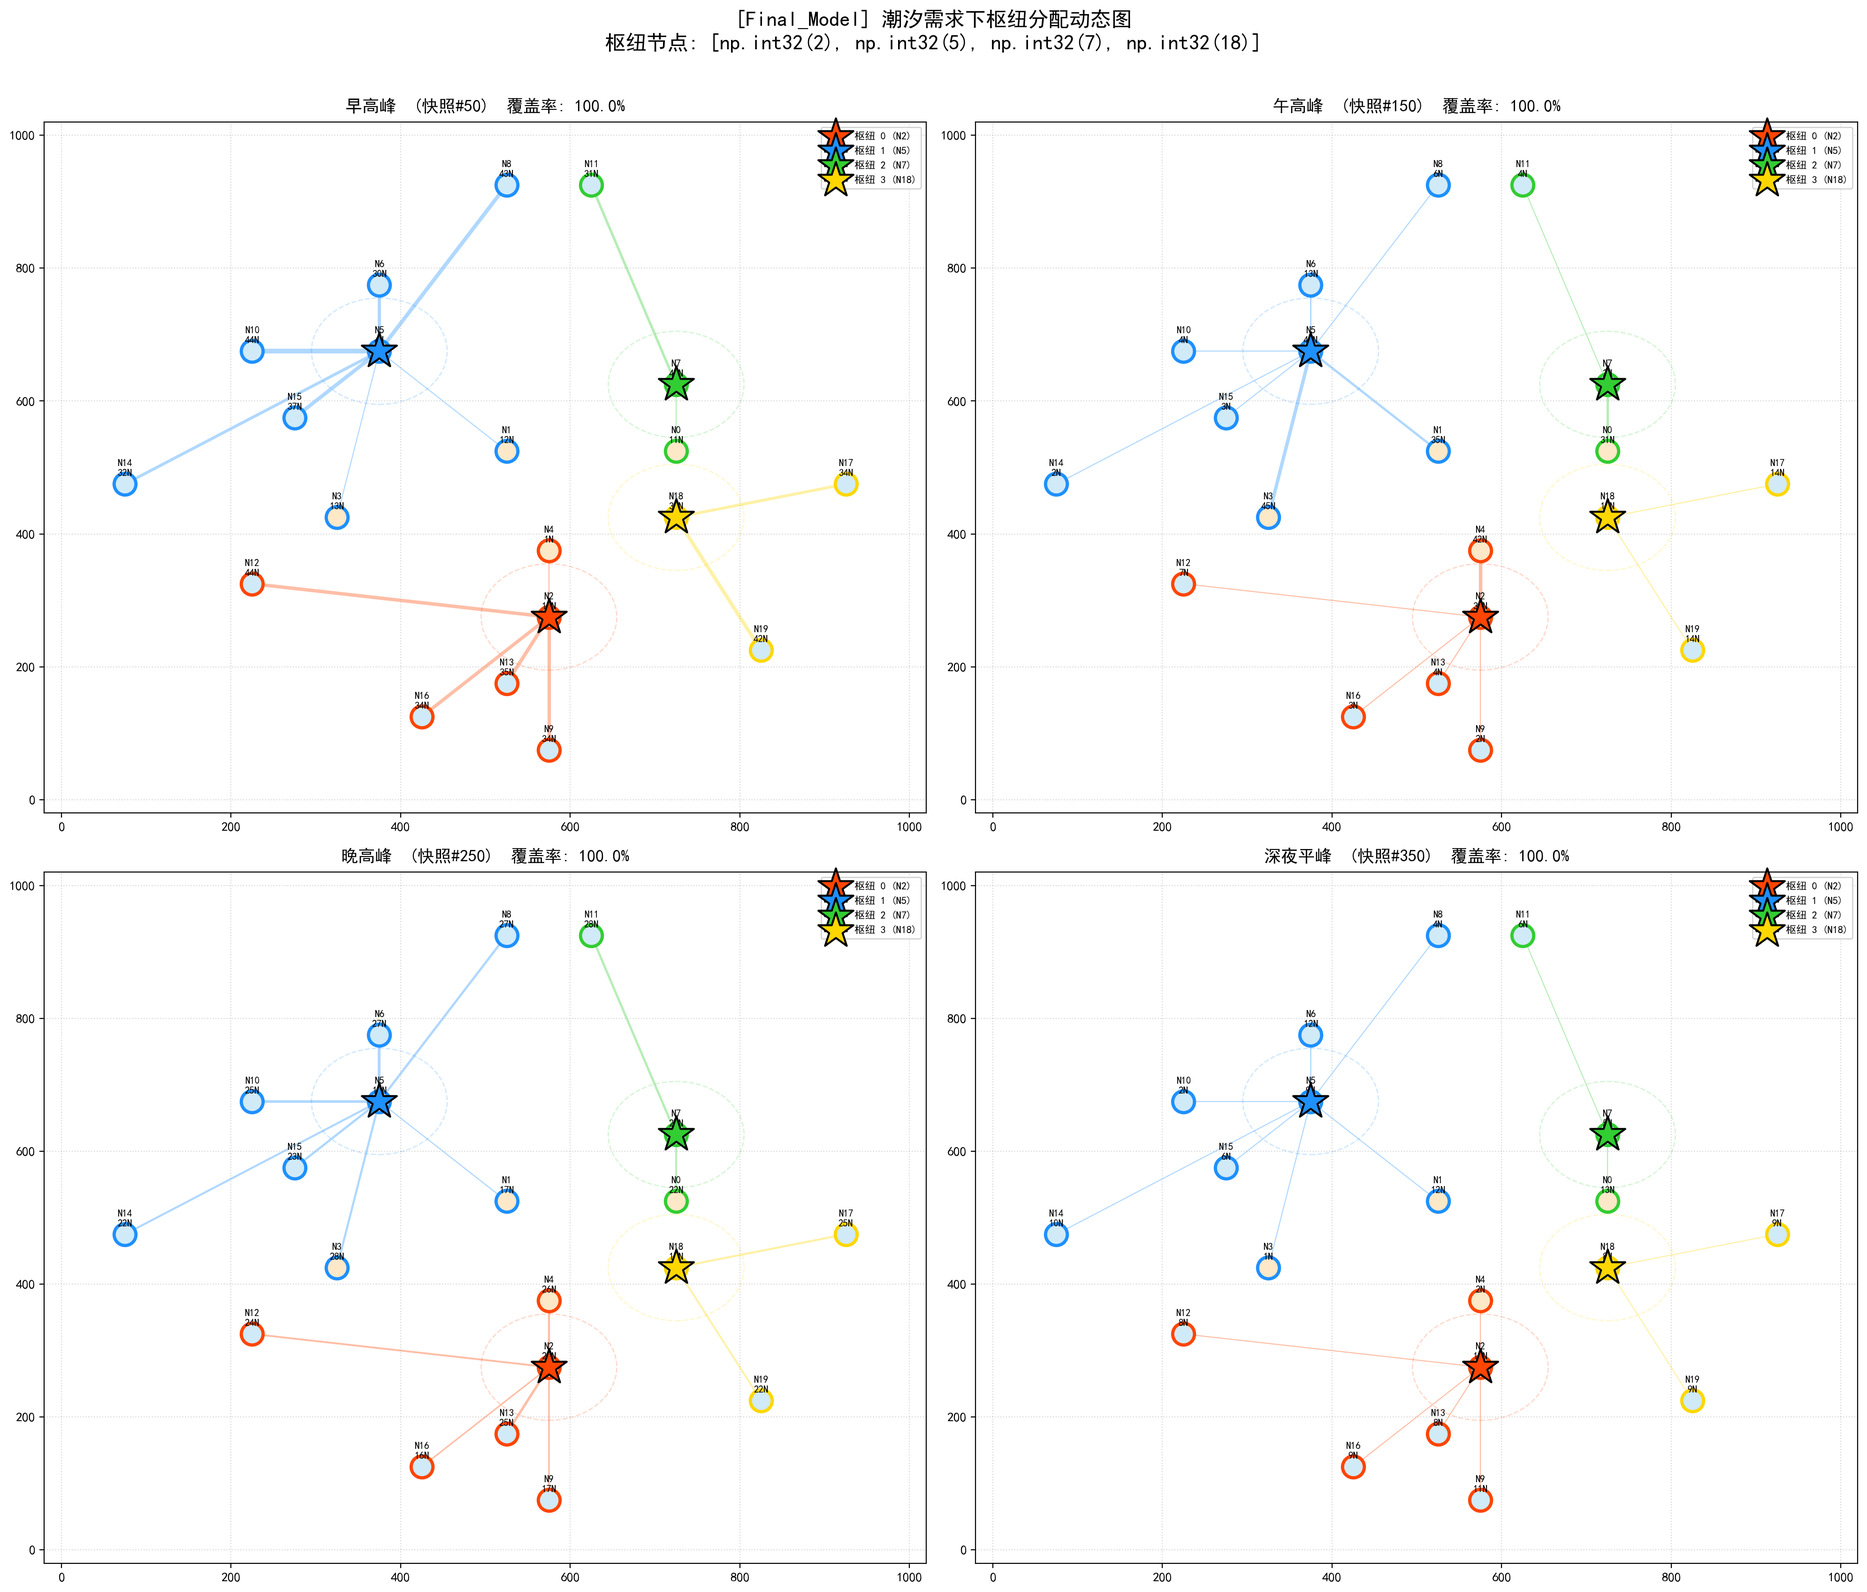
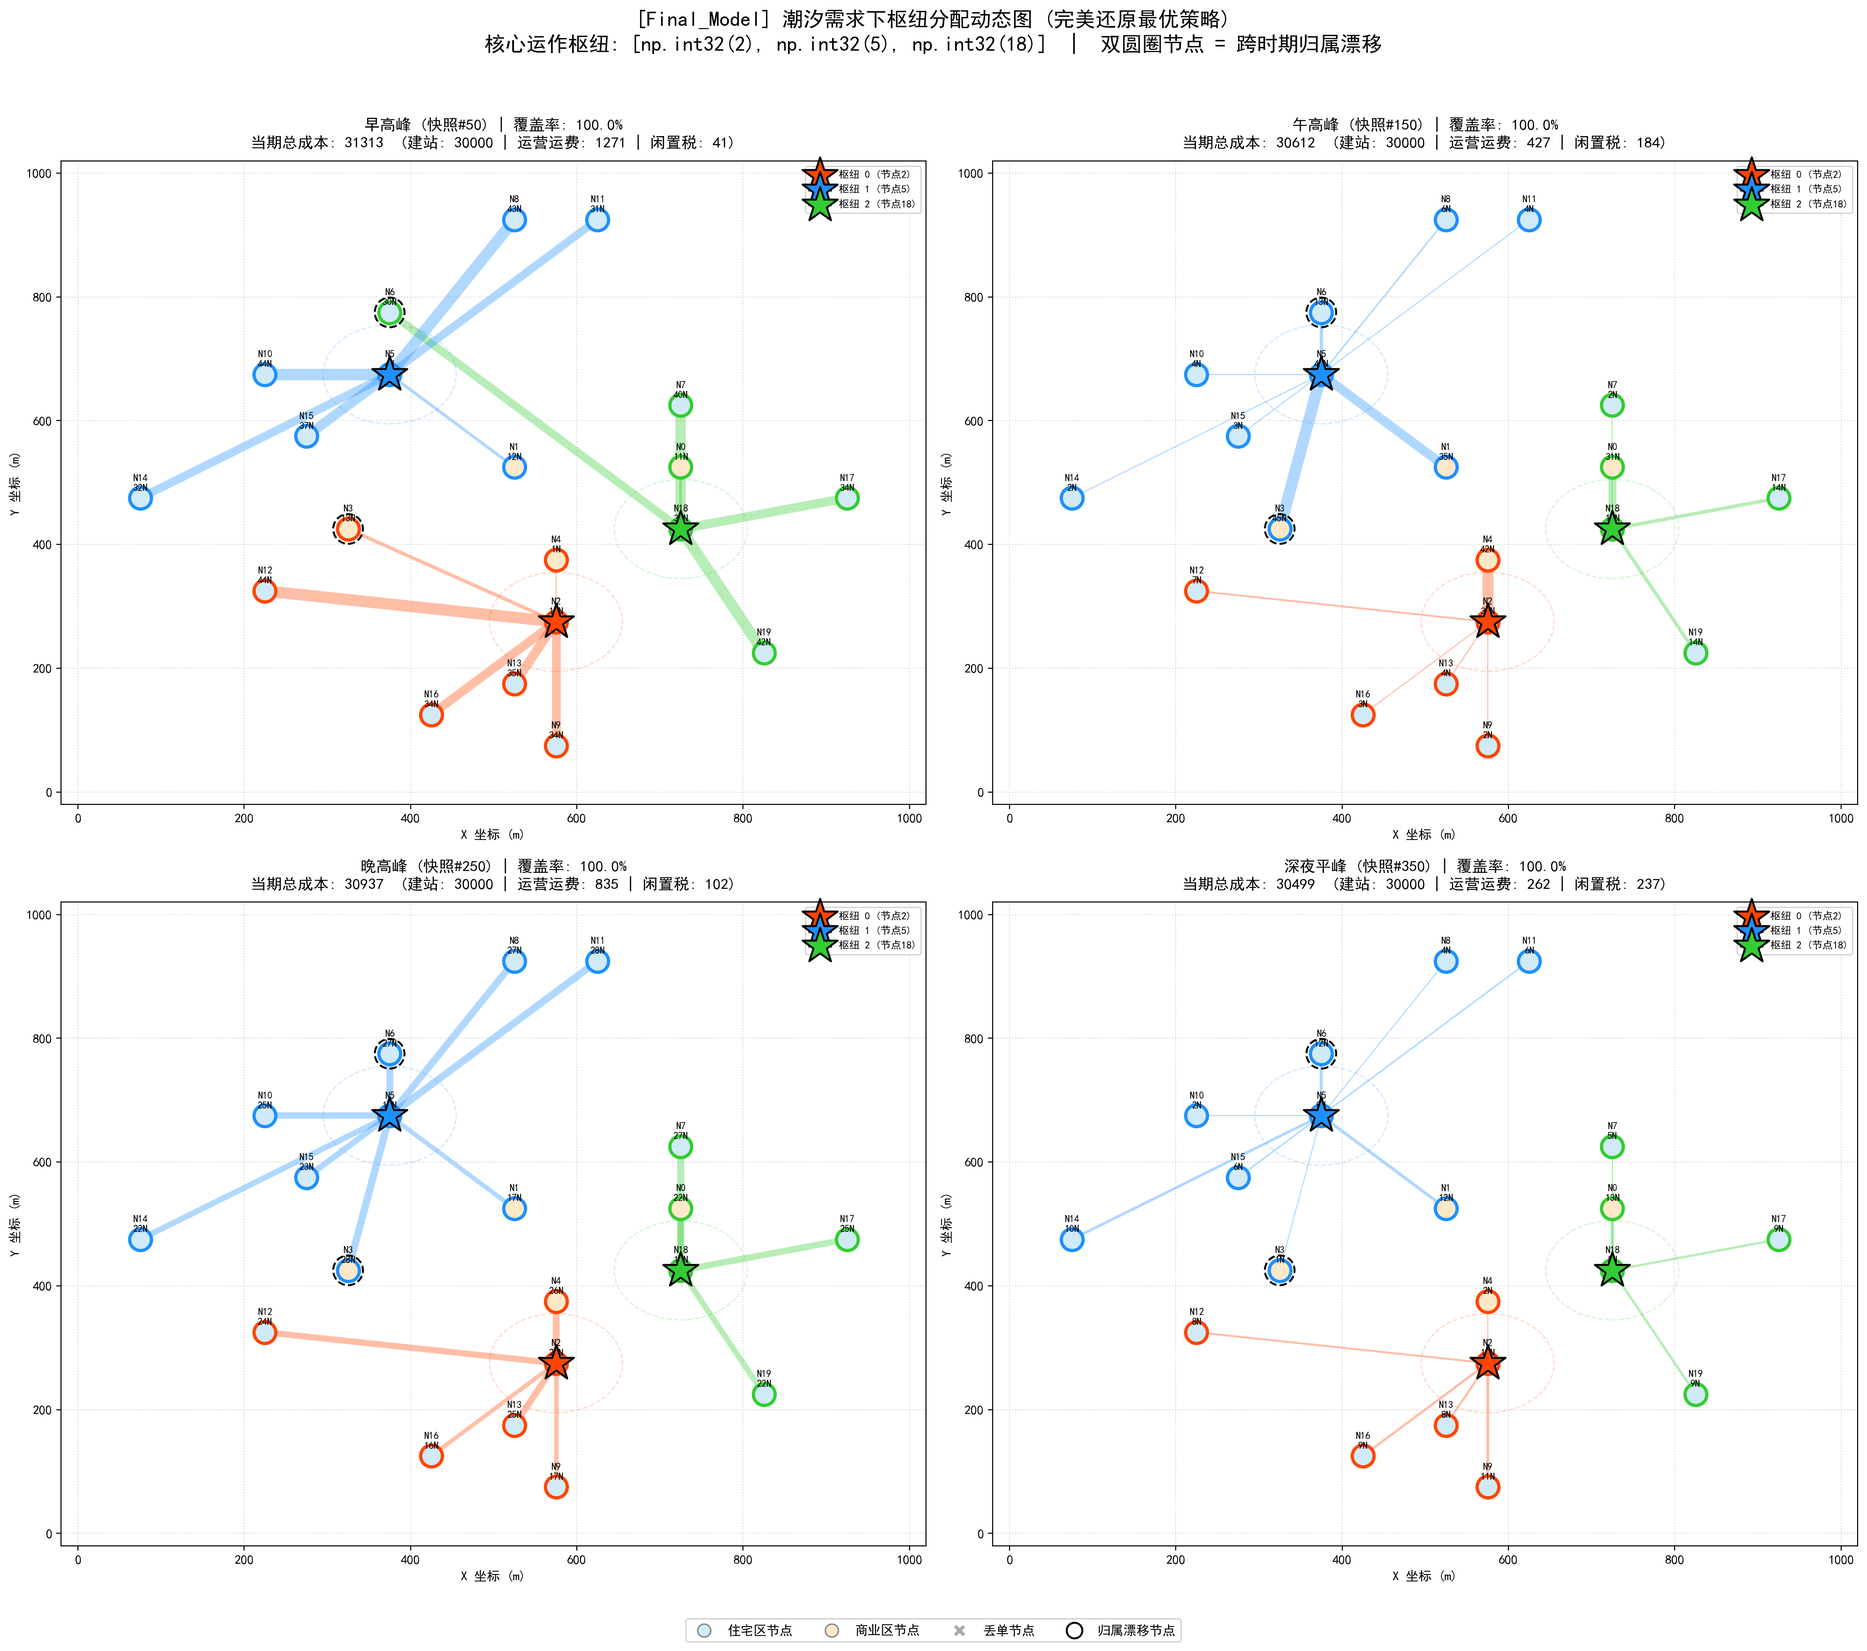
第二次，优化可视化脚本分配策略

diff --git a/module_1_deployment/visualize_hub.py b/module_1_deployment/visualize_hub.py
@@ -1,13 +1,16 @@
 import os
 import sys
 import torch
+import random
 import numpy as np
 import warnings
 import matplotlib.pyplot as plt
 from matplotlib.lines import Line2D
+from torch.distributions import Categorical  
 
 warnings.filterwarnings("ignore", category=FutureWarning)
 
+# 确保中文字体正常显示
 plt.rcParams['font.sans-serif'] = ['SimHei', 'Songti SC', 'Arial Unicode MS', 'Microsoft YaHei']
 plt.rcParams['axes.unicode_minus'] = False
 
@@ -20,22 +23,29 @@ from config import UAVHubConfig
 from module_1_deployment.env_robust_hub import RobustHubEnv
 from module_1_deployment.model_gat_ppo import GraphAttentionPPO
 
+def set_global_seed(seed=42):
+    random.seed(seed)
+    np.random.seed(seed)
+    torch.manual_seed(seed)
+    torch.cuda.manual_seed(seed)
+    torch.cuda.manual_seed_all(seed)
+    torch.backends.cudnn.deterministic = True
+    torch.backends.cudnn.benchmark = False
+    os.environ['PYTHONHASHSEED'] = str(seed)
 
-def get_action_mask(hub_locations, max_hubs, N, device):
-    """与训练时 get_action_mask 逻辑对齐：动作空间 max_hubs*(N+1)"""
+def get_action_mask(state, max_hubs, N, device, hub_locations):
     action_dim = max_hubs * (N + 1)
-    mask = torch.ones(action_dim, dtype=torch.bool, device=device)
-    occupied_nodes = set(h for h in hub_locations if h < N)
-
+    mask = torch.ones(action_dim, dtype=torch.bool).to(device)
+    occupied_nodes = set(np.where(state[:, 2] == 1.0)[0].tolist())
+    
     for h_idx in range(max_hubs):
         own_node = hub_locations[h_idx] if h_idx < len(hub_locations) else N
         for node_idx in occupied_nodes:
             if node_idx == own_node:
-                continue
+                continue 
             idx = h_idx * (N + 1) + node_idx
             mask[idx] = False
     return mask
-
 
 def get_sinkhorn_routing(env, active_hubs, snap_demand):
     num_hubs = len(active_hubs)
@@ -43,7 +53,8 @@ def get_sinkhorn_routing(env, active_hubs, snap_demand):
     for j, h_idx in enumerate(active_hubs):
         distances = env.dist_matrix[:, h_idx]
         C_dist[:, j] = env.physics.calculate_economic_cost(distance=distances, demand=1.0)
-    C_dist[:, -1] = 20.0  # 与训练时保持一致
+        
+    C_dist[:, -1] = env.cfg.penalty_unmet 
 
     shadow_prices = np.zeros(num_hubs + 1)
     for _ in range(20):
@@ -61,53 +72,143 @@ def get_sinkhorn_routing(env, active_hubs, snap_demand):
         overloads = np.maximum(0, hub_loads - env.cfg.Q)
         shadow_prices[:-1] += overloads * env.shadow_step
 
-    return probs
+    # ==========================================================
+    # 👑 究极物理自洽 (V3.0 你的本地免邮版)：容量受限的智能硬分配
+    # ==========================================================
+    hard_probs = np.zeros_like(probs)
+    remaining_capacity = np.ones(num_hubs) * env.cfg.Q
 
+    # 按照节点需求量从大到小排序（物流经典的贪心策略：优先装载大客户）
+    node_order = np.argsort(-snap_demand)
 
+    for i in node_order:
+        req = snap_demand[i]
+        
+        # 如果 AI 在软分配时就强烈倾向于拒单，直接扔垃圾桶
+        if probs[i, -1] > 0.5:
+            hard_probs[i, -1] = 1.0
+            continue
+
+        preferred_hubs = np.argsort(-probs[i, :-1])
+        assigned = False
+
+        for j in preferred_hubs:
+            hub_node = active_hubs[j]
+            
+            # 💡 完美自洽：本地需求原地消化，不消耗无人机运力
+            if i == hub_node:
+                hard_probs[i, j] = 1.0
+                assigned = True
+                break
+            else:
+                # 跨节点需求，严格校验剩余容量
+                if remaining_capacity[j] >= req:
+                    hard_probs[i, j] = 1.0
+                    remaining_capacity[j] -= req
+                    assigned = True
+                    break
+
+        if not assigned:
+            hard_probs[i, -1] = 1.0
+
+    # 财务级成本计算：全部基于校验后的 hard_probs 进行硬核算
+    transport_cost = 0.0
+    idle_penalty = 0.0 
+    actual_hub_loads = np.zeros(num_hubs)
+
+    for j, h_idx in enumerate(active_hubs):
+        mask = np.ones(env.N, dtype=bool)
+        mask[h_idx] = False 
+        transport_cost += np.sum(hard_probs[mask, j] * C_dist[mask, j] * snap_demand[mask])
+        actual_hub_loads[j] = np.sum(hard_probs[mask, j] * snap_demand[mask])
+        
+        hub_idle = env.cfg.Q - actual_hub_loads[j] 
+        idle_penalty += hub_idle * (env.cfg.penalty_unmet * 0.005)
+
+    penalty_cost = np.sum(hard_probs[:, -1] * snap_demand) * env.cfg.penalty_unmet
+    
+    # 验证审计：此时物理载重绝对不会越过红线
+    soft_overloads = np.maximum(0, actual_hub_loads - env.cfg.Q)
+    overload_penalty = np.sum(soft_overloads) * (env.cfg.penalty_unmet * 2.0)
+    
+    op_cost = transport_cost + penalty_cost + overload_penalty
+
+    # 打印最干净、绝对安全的物理账单
+    print(f"   [容量审计] 智能硬分配物理载重: {[f'N{active_hubs[j]}:{actual_hub_loads[j]:.1f}/Q{env.cfg.Q}' for j in range(num_hubs)]}")
+    if np.sum(soft_overloads) > 0:
+        print(f"   ⚠ 警告：溢出 {np.sum(soft_overloads):.1f} (在智能校验下不应出现)")
+    else:
+        print(f"   ✅ 安全：物理红线捍卫成功，溢出量为 0！")
+
+    return hard_probs, op_cost, idle_penalty
 def evaluate_and_plot_model(model_name, model_filename, cfg, env, device):
+    set_global_seed(cfg.seed)
+    
     model_path = os.path.join(current_module_dir, 'models', model_filename)
     if not os.path.exists(model_path):
         print(f"⚠ 跳过 {model_name}: 找不到模型文件 {model_path}")
         return
 
     print(f"\n=================================================")
-    print(f"🧠 正在评估模型: {model_name}")
+    print(f"🧠 正在评估模型: {model_name} (原味采样模式)")
     print(f"=================================================")
 
     model = GraphAttentionPPO(N=cfg.N, max_hubs=cfg.max_hubs).to(device)
-    model.load_state_dict(torch.load(model_path, map_location=device, weights_only=True))
-    model.eval()
+    model.load_state_dict(torch.load(model_path, map_location=device))
+    
+    model.train() 
+    for m in model.modules():
+        if isinstance(m, torch.nn.Dropout):
+            m.p = 0.0  
 
     for name, param in model.named_parameters():
-        if torch.isnan(param).any():
+        if not torch.isfinite(param).all():
             print(f"❌ 权重 {name} 含有 NaN，模型已损坏。")
             return
 
-    # 推理：逐步放置枢纽直到 episode 结束
     state, _ = env.reset()
     done = False
+    
+    best_step_reward = -float('inf')  
+    optimal_hub_locations = None      
+    
+    step_count = 0
     while not done:
         state_tensor = torch.FloatTensor(state).unsqueeze(0).to(device)
-        mask = get_action_mask(env.hub_locations, cfg.max_hubs, cfg.N, device)
+        mask = get_action_mask(state, cfg.max_hubs, cfg.N, device, env.hub_locations)
 
         with torch.no_grad():
             dist, _ = model(state_tensor)
             logits = dist.logits.squeeze(0)
-            masked_logits = logits.masked_fill(~mask, -1e9)
-            action = torch.argmax(masked_logits, dim=-1).item()
+            masked_logits = logits.masked_fill(mask == False, -1e8)
+            
+            safe_dist = Categorical(logits=masked_logits)
+            action = safe_dist.sample().item()
 
-        state, _, terminated, truncated, _ = env.step(action)
+        state, reward, terminated, truncated, _ = env.step(action)
+        step_count += 1
+        
+        if reward > best_step_reward:
+            best_step_reward = reward
+            optimal_hub_locations = env.hub_locations.copy()
+            
         done = terminated or truncated
 
-    active_hubs = env.hub_locations  # list，不含虚拟节点
-    print(f"✅ {model_name} 确定的最终枢纽节点: {active_hubs}")
+    active_hubs = [h for h in optimal_hub_locations if h < cfg.N]
+    
+    if not active_hubs:
+        print("❌ 模型把所有枢纽都扔进了垃圾桶！无法可视化。")
+        return
+
+    print(f"📸 成功抓拍！在 100 步激进采样推演中，最高单步得分为 {best_step_reward:.2f}")
+    print(f"✅ {model_name} 还原出的训练巅峰有效枢纽: {active_hubs}")
 
     output_dir = os.path.join(project_root, 'data', f"{model_name}_Results")
     os.makedirs(output_dir, exist_ok=True)
 
     node_types = env.topo['node_types']
     coords = env.coords
-    hub_colors = ['#FF4500', '#1E90FF', '#32CD32', '#FFD700', '#8A2BE2']
+    hub_colors = ['#FF4500', '#1E90FF', '#32CD32', '#FFD700', '#8A2BE2', '#FF1493']
 
     period_info = [
         ("早高峰", 50),
@@ -116,23 +217,29 @@ def evaluate_and_plot_model(model_name, model_filename, cfg, env, device):
         ("深夜平峰", 350),
     ]
 
-    # -------------------------------------------------------
-    # 图1：2×2 拼图，四时段分配结果
-    # -------------------------------------------------------
     period_assignments = []
     period_probs = []
     period_demands = []
     period_coverages = []
+    
+    # 💡 存储各时段成本拆解
+    period_op_costs = []
+    period_idle_costs = []
+    fixed_cost = sum([env.fixed_costs[h] for h in active_hubs])
 
     for _, snap_idx in period_info:
         demand = env.snapshots[snap_idx]
-        probs = get_sinkhorn_routing(env, active_hubs, demand)
+        probs, op_cost, idle_penalty = get_sinkhorn_routing(env, active_hubs, demand)
         coverage = 1.0 - np.sum(probs[:, -1] * demand) / (np.sum(demand) + 1e-6)
+        
         assignment = np.where(probs[:, -1] > 0.5, -1, np.argmax(probs[:, :-1], axis=1))
+        
         period_assignments.append(assignment)
         period_probs.append(probs)
         period_demands.append(demand)
         period_coverages.append(coverage)
+        period_op_costs.append(op_cost)
+        period_idle_costs.append(idle_penalty)
 
     drift_nodes = set()
     for i in range(env.N):
@@ -140,11 +247,14 @@ def evaluate_and_plot_model(model_name, model_filename, cfg, env, device):
         if len(valid_assignments) > 1 and len(set(valid_assignments)) > 1:
             drift_nodes.add(i)
 
-    print(f"  🔀 归属漂移节点: {sorted(drift_nodes)}")
+    print(f"  🔀 归属漂移节点 (准动态优化特征): {sorted(drift_nodes)}")
 
+    # -------------------------------------------------------
+    # 绘图部分
+    # -------------------------------------------------------
     fig, axes = plt.subplots(2, 2, figsize=(20, 18))
-    fig.suptitle(f"[{model_name}] 潮汐需求下枢纽分配动态图\n"
-                 f"枢纽节点: {active_hubs}  |  双圆圈节点 = 跨时期归属漂移",
+    fig.suptitle(f"[{model_name}] 潮汐需求下枢纽分配动态图 (完美还原最优策略)\n"
+                 f"核心运作枢纽: {active_hubs}  |  双圆圈节点 = 跨时期归属漂移",
                  fontsize=16, fontweight='bold', y=0.98)
 
     for ax_idx, (ax, (period_name, snap_idx)) in enumerate(zip(axes.flat, period_info)):
@@ -152,6 +262,11 @@ def evaluate_and_plot_model(model_name, model_filename, cfg, env, device):
         probs = period_probs[ax_idx]
         assignment = period_assignments[ax_idx]
         coverage = period_coverages[ax_idx]
+        
+        # 获取当前时段的具体成本
+        curr_op_cost = period_op_costs[ax_idx]
+        curr_idle_penalty = period_idle_costs[ax_idx]
+        total_snapshot_cost = fixed_cost + curr_op_cost + curr_idle_penalty
 
         for i in range(env.N):
             if assignment[i] == -1:
@@ -168,7 +283,7 @@ def evaluate_and_plot_model(model_name, model_filename, cfg, env, device):
             fill_color = '#D0EAF8' if node_types[i] == 0 else '#FDE8C8'
             label_text = f"N{i}\n{demand[i]:.0f}N"
 
-            if assignment[i] == -1:
+            if assignment[i] == -1: 
                 ax.scatter(coords[i, 0], coords[i, 1], c='#AAAAAA', marker='X',
                            s=280, alpha=0.85, zorder=2)
                 ax.text(coords[i, 0], coords[i, 1] + 12, label_text,
@@ -194,8 +309,11 @@ def evaluate_and_plot_model(model_name, model_filename, cfg, env, device):
                                  linestyle='--', alpha=0.2, zorder=1)
             ax.add_artist(circle)
 
-        ax.set_title(f"{period_name}  (快照#{snap_idx})  覆盖率: {coverage*100:.1f}%",
-                     fontsize=13, pad=8)
+        # 💡 在子标题上详细标出当期成本拆解明细
+        ax.set_title(f"{period_name} (快照#{snap_idx}) | 覆盖率: {coverage*100:.1f}%\n"
+                     f"当期总成本: {total_snapshot_cost:.0f}  (建站: {fixed_cost:.0f} | 运营运费: {curr_op_cost:.0f} | 闲置税: {curr_idle_penalty:.0f})",
+                     fontsize=12, pad=10)
+                     
         ax.set_xlim(-20, cfg.map_size + 20)
         ax.set_ylim(-20, cfg.map_size + 20)
         ax.set_xlabel("X 坐标 (m)", fontsize=10)
@@ -217,14 +335,14 @@ def evaluate_and_plot_model(model_name, model_filename, cfg, env, device):
     fig.legend(handles=legend_elements, loc='lower center', ncol=4,
                fontsize=10, framealpha=0.9, bbox_to_anchor=(0.5, 0.01))
 
-    plt.tight_layout(rect=[0, 0.04, 1, 0.97])
+    plt.tight_layout(rect=[0, 0.04, 1, 0.96]) # 留出顶部大标题空间
     save_path = os.path.join(output_dir, "00_四时段分配对比图.png")
     plt.savefig(save_path, dpi=200, bbox_inches='tight')
     plt.close()
     print(f"  ✅ 四时段对比图已保存: {save_path}")
 
     # -------------------------------------------------------
-    # 图2：归属稳定性热力图
+    # 图 2：归属稳定性热力图
     # -------------------------------------------------------
     fig2, ax2 = plt.subplots(figsize=(12, 10))
 
@@ -236,12 +354,13 @@ def evaluate_and_plot_model(model_name, model_filename, cfg, env, device):
 
     avg_probs = np.mean(period_probs, axis=0)
     for i in range(env.N):
-        best_hub_idx = np.argmax(avg_probs[i, :-1])
-        hub_loc = active_hubs[best_hub_idx]
-        if i != hub_loc and avg_probs[i, -1] <= 0.5:
-            ax2.plot([coords[i, 0], coords[hub_loc, 0]],
-                     [coords[i, 1], coords[hub_loc, 1]],
-                     color='#CCCCCC', alpha=0.4, linewidth=1.0, zorder=1)
+        if len(active_hubs) > 0:
+            best_hub_idx = np.argmax(avg_probs[i, :-1])
+            hub_loc = active_hubs[best_hub_idx]
+            if i != hub_loc and avg_probs[i, -1] <= 0.5:
+                ax2.plot([coords[i, 0], coords[hub_loc, 0]],
+                         [coords[i, 1], coords[hub_loc, 1]],
+                         color='#CCCCCC', alpha=0.4, linewidth=1.0, zorder=1)
 
     cmap = plt.cm.RdYlGn_r
     for i in range(env.N):
@@ -280,12 +399,12 @@ def evaluate_and_plot_model(model_name, model_filename, cfg, env, device):
     print(f"  ✅ 归属稳定性热力图已保存: {save_path2}")
     print(f"🎉 {model_name} 全部图表已保存至: {output_dir}")
 
-
 def visualize_and_save():
     cfg = UAVHubConfig()
     env = RobustHubEnv(cfg)
     device = torch.device("cuda" if torch.cuda.is_available() else "cpu")
 
+    # 💡 增加 Final_Model，批量出图
     models_to_test = {
         "Best_Model": "best_gat_policy.pth",
         "Final_Model": "final_gat_policy.pth",
@@ -293,7 +412,6 @@ def visualize_and_save():
 
     for model_name, model_filename in models_to_test.items():
         evaluate_and_plot_model(model_name, model_filename, cfg, env, device)
-
 
 if __name__ == "__main__":
     visualize_and_save()
